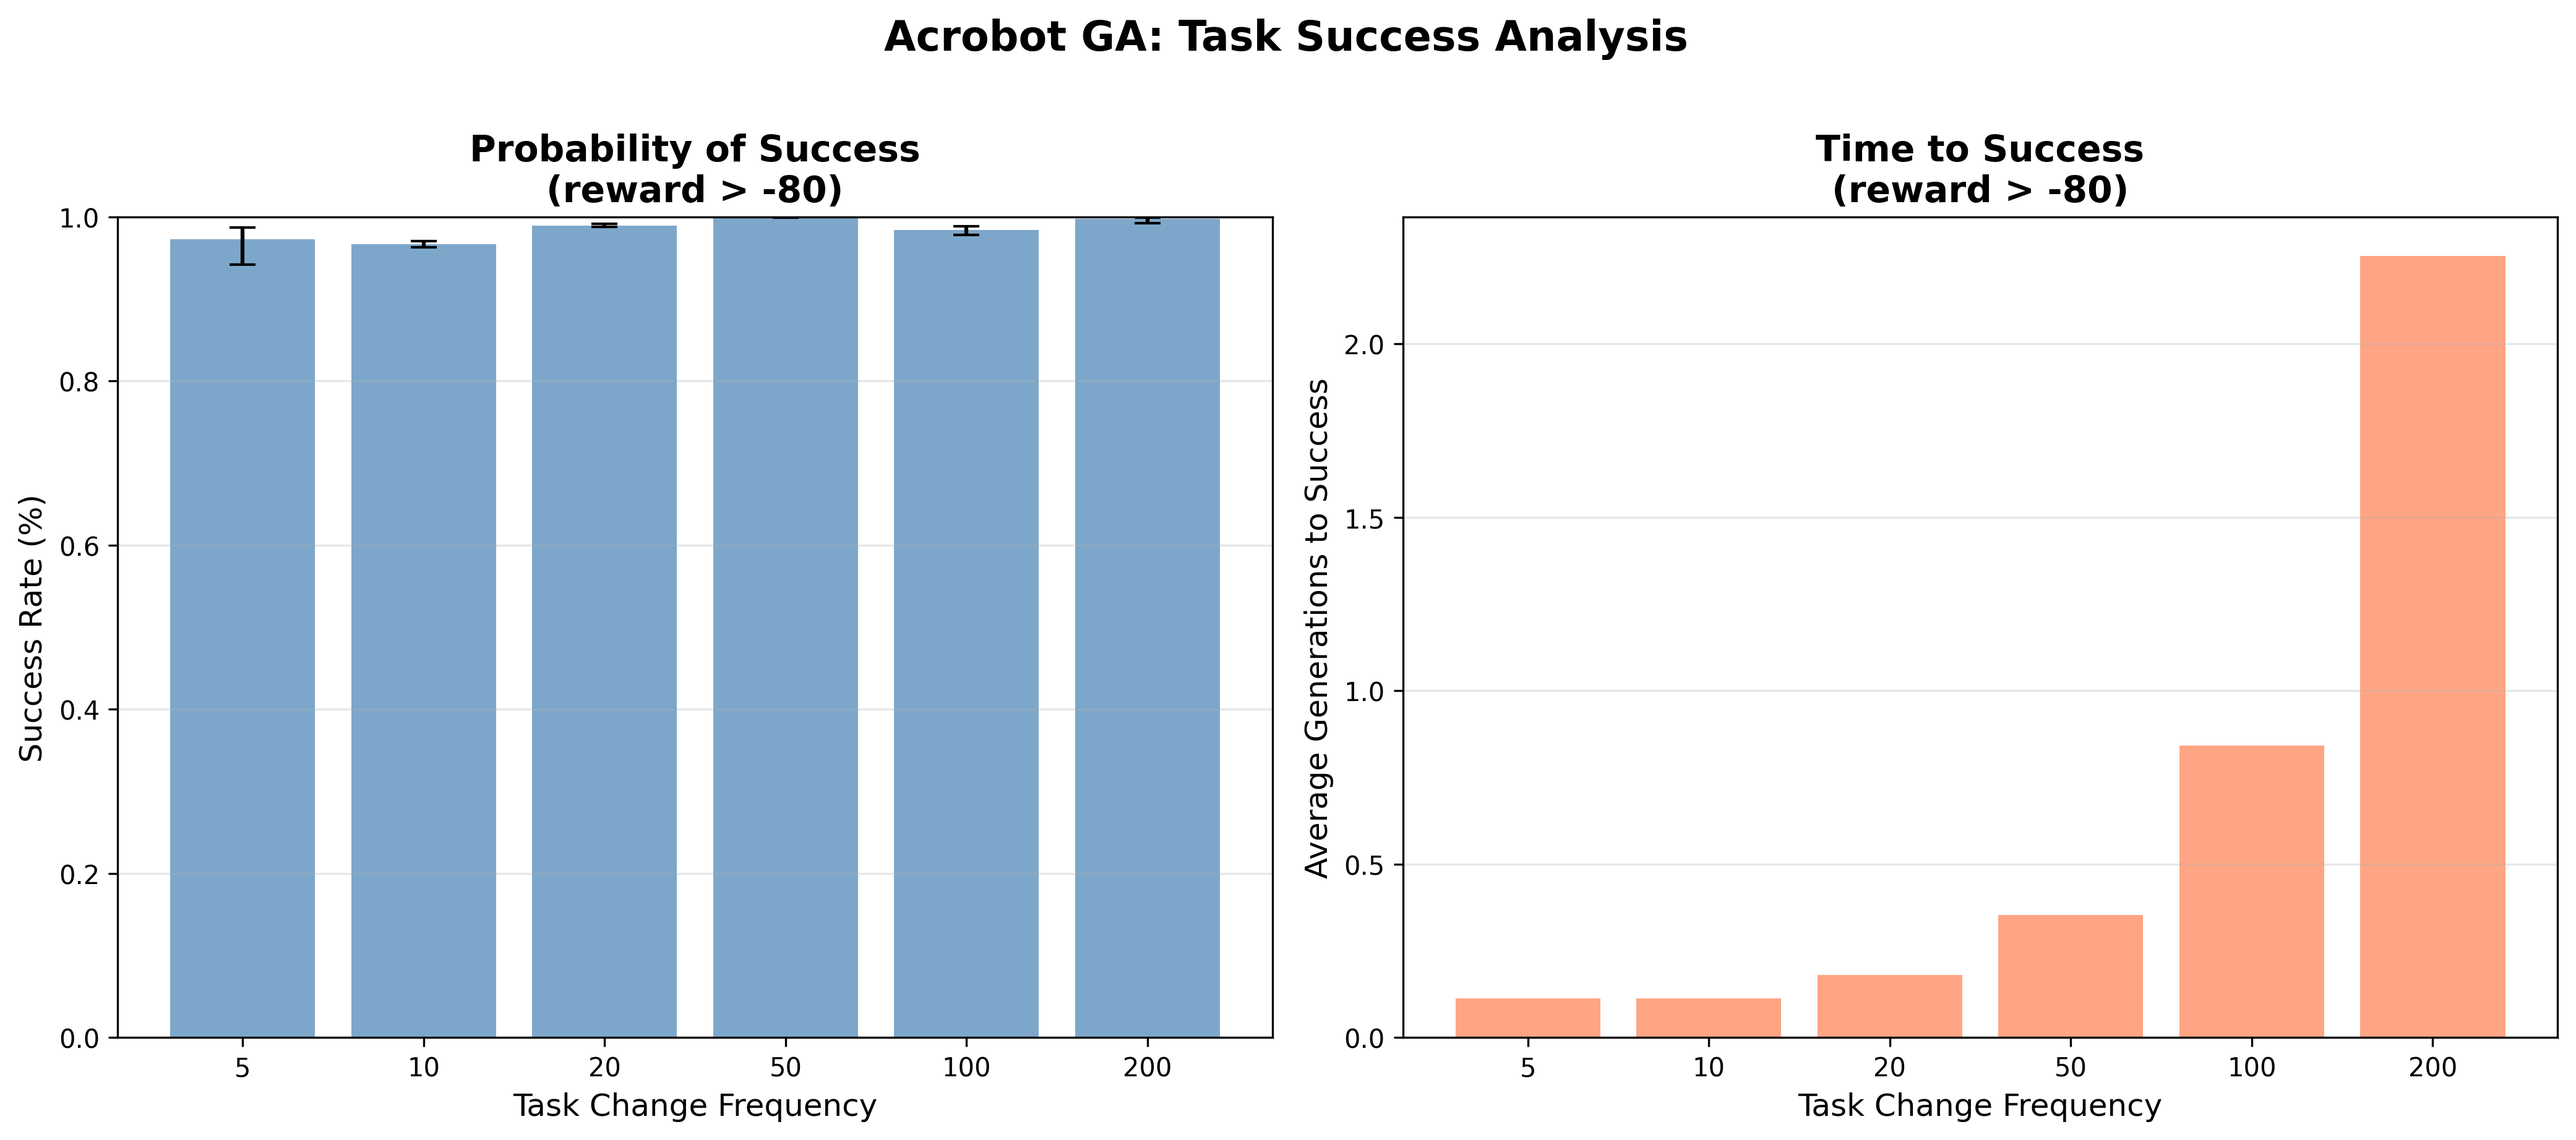
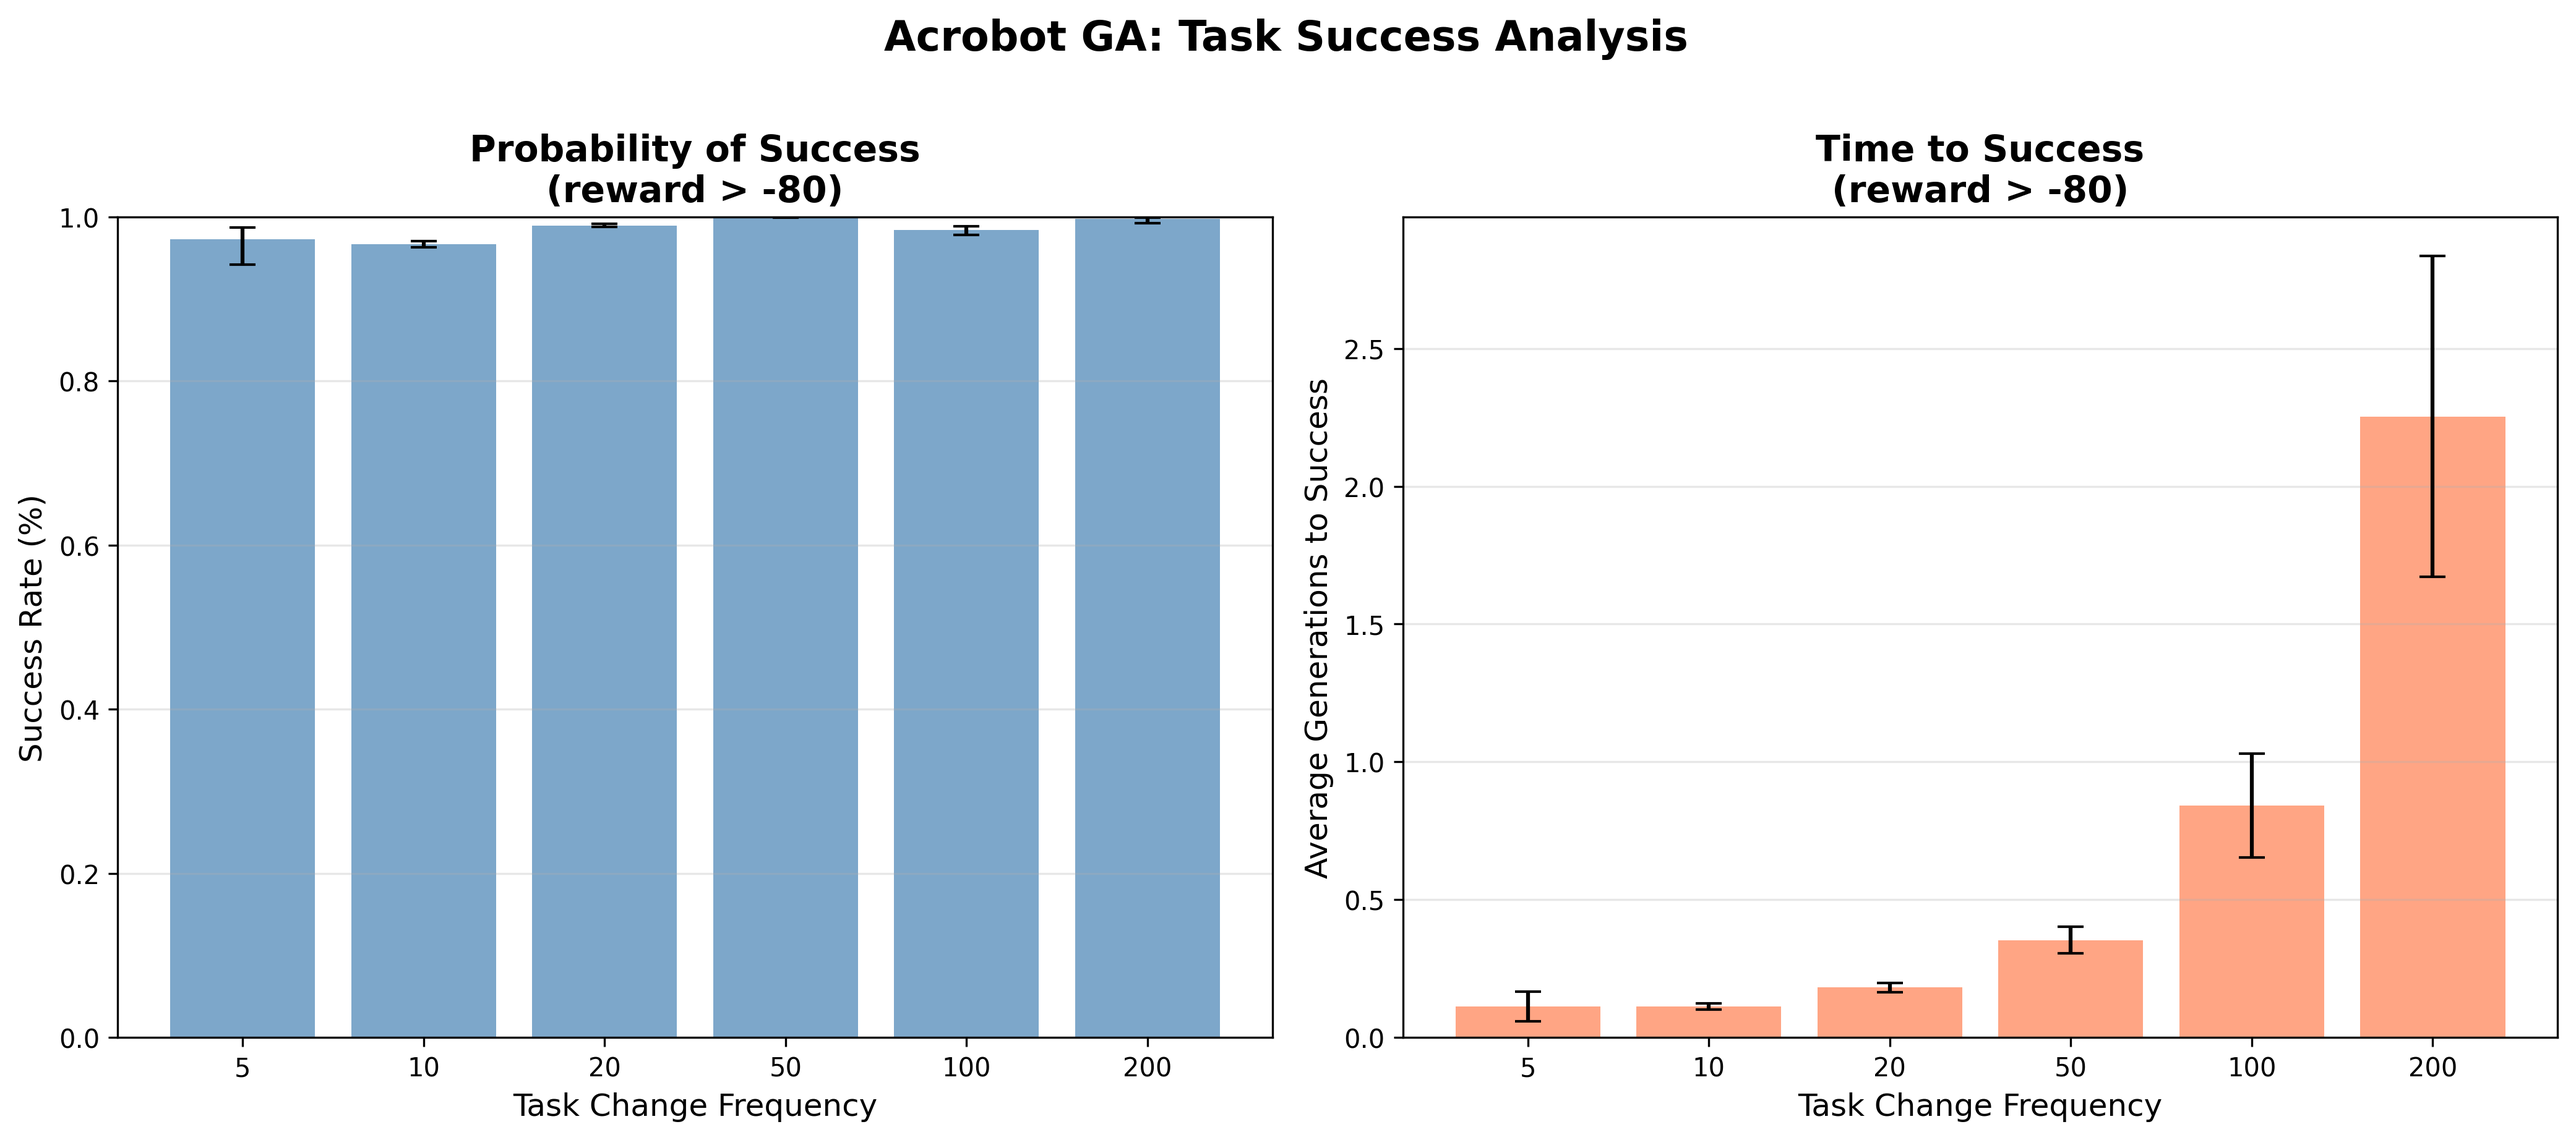
before moving to brax envs

diff --git a/scripts/freq_analysis/analyze_task_success.py b/scripts/freq_analysis/analyze_task_success.py
@@ -142,19 +142,33 @@ def analyze_task(task_name, data_dir, frequencies, success_threshold, title, use
     
     # Always calculate average generations (even if empty)
     if len(results_df) > 0:
-        avg_gens_per_freq = results_df.groupby('frequency')['generations_to_success'].mean().reset_index()
-        avg_gens_per_freq.columns = ['frequency', 'avg_generations_to_success']
+        avg_gens_per_freq = results_df.groupby('frequency')['generations_to_success'].agg(['mean', 'std', 'count']).reset_index()
+        avg_gens_per_freq.columns = ['frequency', 'avg_generations_to_success', 'std_generations_to_success', 'n_successes']
+        
+        # Calculate standard error and confidence intervals
+        avg_gens_per_freq['se_generations_to_success'] = avg_gens_per_freq['std_generations_to_success'] / np.sqrt(avg_gens_per_freq['n_successes'])
+        # Use t-distribution for confidence intervals
+        confidence = 0.95
+        # Handle case where n_successes = 1 (df = 0, use normal distribution instead)
+        df = np.maximum(1, avg_gens_per_freq['n_successes'] - 1)
+        t_critical = stats.t.ppf((1 + confidence) / 2, df)
+        avg_gens_per_freq['ci_lower_gens'] = avg_gens_per_freq['avg_generations_to_success'] - t_critical * avg_gens_per_freq['se_generations_to_success']
+        avg_gens_per_freq['ci_upper_gens'] = avg_gens_per_freq['avg_generations_to_success'] + t_critical * avg_gens_per_freq['se_generations_to_success']
         
         # Merge with success_rate_df to ensure all frequencies are represented
         # Set NaN for frequencies with no successes
-        success_rate_df = success_rate_df.merge(avg_gens_per_freq, on='frequency', how='left')
+        success_rate_df = success_rate_df.merge(avg_gens_per_freq[['frequency', 'avg_generations_to_success', 'ci_lower_gens', 'ci_upper_gens']], on='frequency', how='left')
         success_rate_df['avg_generations_to_success'] = success_rate_df['avg_generations_to_success'].fillna(np.nan)
+        success_rate_df['ci_lower_gens'] = success_rate_df['ci_lower_gens'].fillna(np.nan)
+        success_rate_df['ci_upper_gens'] = success_rate_df['ci_upper_gens'].fillna(np.nan)
         
         print("\nAverage generations to success per frequency:")
         print(success_rate_df[['frequency', 'avg_generations_to_success']])
     else:
         # No successes at all - set all to NaN
         success_rate_df['avg_generations_to_success'] = np.nan
+        success_rate_df['ci_lower_gens'] = np.nan
+        success_rate_df['ci_upper_gens'] = np.nan
         print("\nNo successful task completions - cannot calculate average generations to success.")
     
     # Calculate confidence intervals for success rates (always do this)
@@ -201,9 +215,28 @@ def analyze_task(task_name, data_dir, frequencies, success_threshold, title, use
         # Plot 2: Average generations to success
         # Handle NaN values by creating a boolean mask
         valid_gens = ~np.isnan(success_rate_df['avg_generations_to_success'])
-        bars = ax2.bar(np.where(valid_gens)[0], 
-                      success_rate_df.loc[valid_gens, 'avg_generations_to_success'],
-                      color='coral', alpha=0.7)
+        x_pos_valid = np.where(valid_gens)[0]
+        
+        if len(x_pos_valid) > 0:
+            bars = ax2.bar(x_pos_valid, 
+                          success_rate_df.loc[valid_gens, 'avg_generations_to_success'],
+                          color='coral', alpha=0.7)
+            
+            # Add error bars for valid generations
+            yerr_lower = np.maximum(0, 
+                success_rate_df.loc[valid_gens, 'avg_generations_to_success'] - 
+                success_rate_df.loc[valid_gens, 'ci_lower_gens']
+            )
+            yerr_upper = np.maximum(0,
+                success_rate_df.loc[valid_gens, 'ci_upper_gens'] - 
+                success_rate_df.loc[valid_gens, 'avg_generations_to_success']
+            )
+            
+            ax2.errorbar(x_pos_valid, 
+                        success_rate_df.loc[valid_gens, 'avg_generations_to_success'],
+                        yerr=[yerr_lower, yerr_upper],
+                        fmt='none', color='black', capsize=5, elinewidth=1.5)
+        
         # Add gray bars for NaN values
         invalid_gens = np.isnan(success_rate_df['avg_generations_to_success'])
         if invalid_gens.any():
@@ -236,6 +269,27 @@ def main():
     base_dir = Path('/home/eleni/workspace/continual_control_through_neuroevolution/scripts/freq_analysis')
     data_dir = "freq_anal"
     
+    # Analyze Cartpole PPO
+    cartpole_ppo_dir = base_dir / data_dir / 'cartpole' / 'ppo'
+    cartpole_ppo_frequencies = [5, 20, 50, 100, 200]
+    analyze_task('cartpole_ppo', cartpole_ppo_dir, cartpole_ppo_frequencies, 198, 'Cartpole PPO', use_greater_than_or_equal=False)
+    
+  
+    
+      # Analyze Acrobot PPO
+    acrobot_ppo_dir = base_dir / data_dir / 'acrobot' / 'ppo'
+    acrobot_ppo_frequencies = [5, 10, 20, 50, 100, 200]
+    analyze_task('acrobot_ppo', acrobot_ppo_dir, acrobot_ppo_frequencies, -80, 'Acrobot PPO', use_greater_than_or_equal=False)
+    
+  
+        # Analyze Acrobot PPO
+    mountaincar_ppo_dir = base_dir / data_dir / 'mountaincar' / 'ppo'
+    mountaincar_ppo_frequencies = [5, 10, 20, 50, 100, 200]
+    analyze_task('mountaincar_ppo', mountaincar_ppo_dir, mountaincar_ppo_frequencies, -139, 'Mountaincar PPO', use_greater_than_or_equal=False)
+    
+  
+    
+    
       # Analyze Cartpole GA (use >= since goal is exactly 199)
     cartpole_ga_dir = base_dir / data_dir / 'cartpole' / 'ga'
     cartpole_frequencies = [5, 20, 50, 100, 200, 500]
@@ -247,14 +301,16 @@ def main():
     mountaincar_frequencies = [5, 10, 50, 100, 200, 500, 1000]
     analyze_task('mountaincar_ga', mountaincar_ga_dir, mountaincar_frequencies, -130, 'Mountaincar GA', use_greater_than_or_equal=False)
 
-  
-    quit()
     # Analyze Acrobot GA
+    data_dir = "data_old"
     acrobot_ga_dir = base_dir / data_dir / 'acrobot' / 'ga'
     acrobot_frequencies = [5, 10, 20, 50, 100, 200]
     analyze_task('acrobot_ga', acrobot_ga_dir, acrobot_frequencies, -80, 'Acrobot GA', use_greater_than_or_equal=False)
     
-    # Analyze Acrobot PPO
+ 
+  
+    quit()
+     # Analyze Acrobot PPO
     acrobot_ppo_dir = base_dir / data_dir / 'acrobot' / 'ppo'
     acrobot_ppo_frequencies = [10, 20]
     analyze_task('acrobot_ppo', acrobot_ppo_dir, acrobot_ppo_frequencies, -80, 'Acrobot PPO', use_greater_than_or_equal=False)

diff --git a/scripts/train/evosax/train.py b/scripts/train/evosax/train.py
@@ -129,11 +129,12 @@ def train_classic_control_all(num_trials, optimizer):
     
 def train_classic_control_parameteric(num_trials, optimizer):
     n_gens = [5,10, 20, 50, 100, 200][::-1]
-    #n_gens = [100]
+    #n_gens = [200]
+    n_gens = [5,200]
     for perturbe_every_n_gens in n_gens:
-        #train_gymnax(num_trials=num_trials, env_name="CartPole-v1",  population_size=512, noise_range=1.0, optimizer=optimizer, perturbe_every_n_gens=perturbe_every_n_gens)
-        #train_gymnax(num_trials=num_trials, env_name="Acrobot-v1", population_size=512, noise_range=1.0, optimizer=optimizer, perturbe_every_n_gens=perturbe_every_n_gens)
-        train_gymnax(num_trials=num_trials, env_name="MountainCar-v0",  population_size=512, noise_range=0.0, optimizer=optimizer, perturbe_every_n_gens=perturbe_every_n_gens)
+        train_gymnax(num_trials=num_trials, env_name="CartPole-v1",  population_size=512, noise_range=1.0, optimizer=optimizer, perturbe_every_n_gens=perturbe_every_n_gens)
+        train_gymnax(num_trials=num_trials, env_name="Acrobot-v1", population_size=512, noise_range=1.0, optimizer=optimizer, perturbe_every_n_gens=perturbe_every_n_gens)
+        #train_gymnax(num_trials=num_trials, env_name="MountainCar-v0",  population_size=512, noise_range=1.0, optimizer=optimizer, perturbe_every_n_gens=perturbe_every_n_gens)
         
         
 
@@ -152,7 +153,7 @@ def train_kinetix_lifelong(num_trials, optimizer):
 
 if __name__ == "__main__":
     parser = argparse.ArgumentParser(description="This script trains Proximal Policy Optimisation on the stepping gates and ecorobot benchmarks")
-    parser.add_argument("--num_trials", type=int, help="Number of trials", default=1)
+    parser.add_argument("--num_trials", type=int, help="Number of trials", default=5)
     parser.add_argument("--optimizer", type=str, help="Choose between SimpleGA and OpenES", default="SimpleGA")
     args = parser.parse_args()
     

diff --git a/scripts/train/evosax/train_utils.py b/scripts/train/evosax/train_utils.py
@@ -350,6 +350,7 @@ class EvosaxExperiment(Experiment):
             log_info["deepest_level"] = max_level
             
             # Save weights history for PCA visualization (generation already extracted above)
+            """
             if flat_params_for_testing is not None and weights_history_file is not None:
                 flat_params_np = onp.array(flat_params_for_testing)
                 fitnesses_np = onp.array(data["fitness"])
@@ -449,6 +450,7 @@ class EvosaxExperiment(Experiment):
                     
                 except Exception as e:
                     print(f"Warning: Could not compute/save best individual difference: {e}")
+                
                 
                 # Save to pickle file (append mode - load, update, save)
                 try:
@@ -599,6 +601,7 @@ class EvosaxExperiment(Experiment):
                 log_info["dist_count/powerlaw"] = count_powerlaw
                 log_info["dist_count/other"] = count_other
                 log_info["dist_count/total"] = pop_size
+            """
 
             wandb.log(log_info)
             

diff --git a/methods/evosax_wrapper/base/training/base.py b/methods/evosax_wrapper/base/training/base.py
@@ -124,7 +124,7 @@ class BaseTrainer(eqx.Module):
 		print("perturbe_every_n_gens", self.perturbe_every_n_gens)
 		print("num_tasks", num_tasks)
 		quit()
-		total_noise = jnp.ones((num_tasks,self.obs_size))*0.76 #jax.random.normal(key, (num_tasks,self.obs_size))*self.noise_range
+		total_noise = jax.random.normal(key, (num_tasks,self.obs_size))*self.noise_range
 
 
 		
@@ -299,7 +299,7 @@ class BaseTrainer(eqx.Module):
 		task_params_init = 0
 		#keys = jr.split(key, 10)
 		num_tasks = int(self.train_steps / self.perturbe_every_n_gens) + 50
-		total_noise =jnp.ones((num_tasks,self.obs_size))*0.76 #jax.random.normal(key, (num_tasks,self.obs_size))*self.noise_range
+		total_noise = jax.random.normal(key, (num_tasks,self.obs_size))*self.noise_range
 
 		# Use scan with early termination support
 		

diff --git a/scripts/train/evosax/hyperparams.py b/scripts/train/evosax/hyperparams.py
@@ -9,7 +9,7 @@ train_gens = {"n_parity": 5,
                    "Acrobot-v1": 200*100,
                    "MountainCar-v0": 200*100,
                    "MountainCarContinuous-v0": 200*15,
-                   "CartPole-v1": 200*10,
+                   "CartPole-v1": 200*10*10,
                    "Breakout-MinAtar": 5000,
                    "Freeway-MinAtar": 3000,
                    "SpaceInvaders-MinAtar": 5000,

diff --git a/methods/evosax_wrapper/base/training/evolution.py b/methods/evosax_wrapper/base/training/evolution.py
@@ -189,6 +189,8 @@ class EvosaxTrainer(BaseTrainer):
 
 
 		fitness, eval_data, interm_policies, temp_task_paramsm, env_state = self.eval(x, eval_key, task_params, current_gen, env_state, noise)
+  
+		
 
 		def change_task(env_params):
 			new_task = jnp.minimum(env_params + 1, self.num_tasks ).astype(jnp.int32)

diff --git a/scripts/train/base/experiment.py b/scripts/train/base/experiment.py
@@ -137,7 +137,6 @@ class Experiment:
         self.setup()
 
         for trial in range(self.config["exp_config"]["num_trials"]):
-            trial = trial - 1
             self.setup_trial(trial)
 
             self.train_trial()
